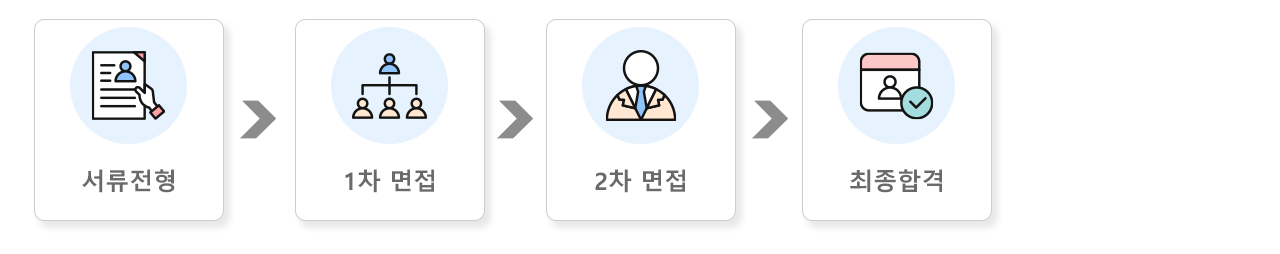
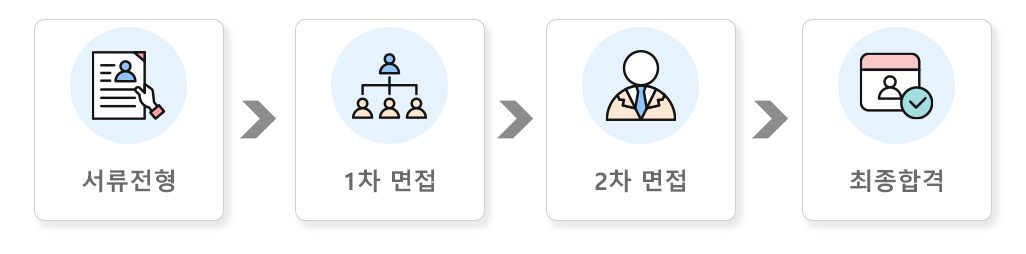
img update

diff --git a/office_info_renew.html b/office_info_renew.html
@@ -125,7 +125,9 @@
         <!-- 채용절차 -->
         <section id="process" class="general mt-5">
             <h2>채용절차</h2>
-            <img src="./assets/img/recruitment_process_3.png" alt="" srcset="">
+            <div class="process-img">
+                <img src="./assets/img/recruitment_process_4.png">
+            </div>
         </section>
 
         <!-- 기업소개 -->

diff --git a/assets/css/subPage.css b/assets/css/subPage.css
@@ -1007,7 +1007,12 @@ td.company {
     font-size: 18px;
     color: #494949;
 }
-
+.process-img {
+    text-align: center;
+}
+.process-img img {
+    height: 200px;
+}
 
 
 
